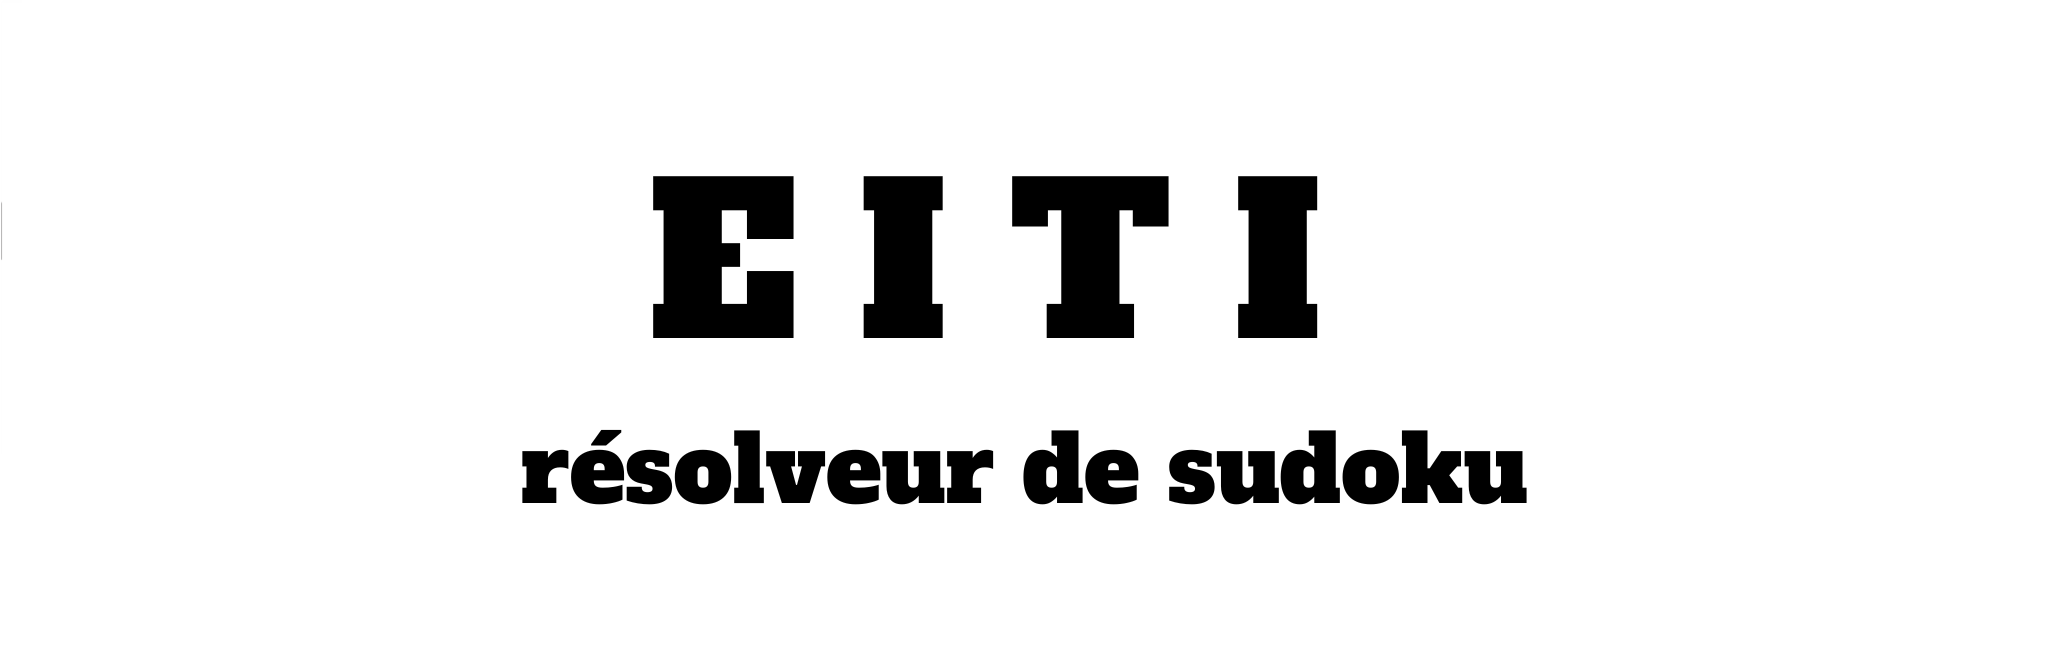
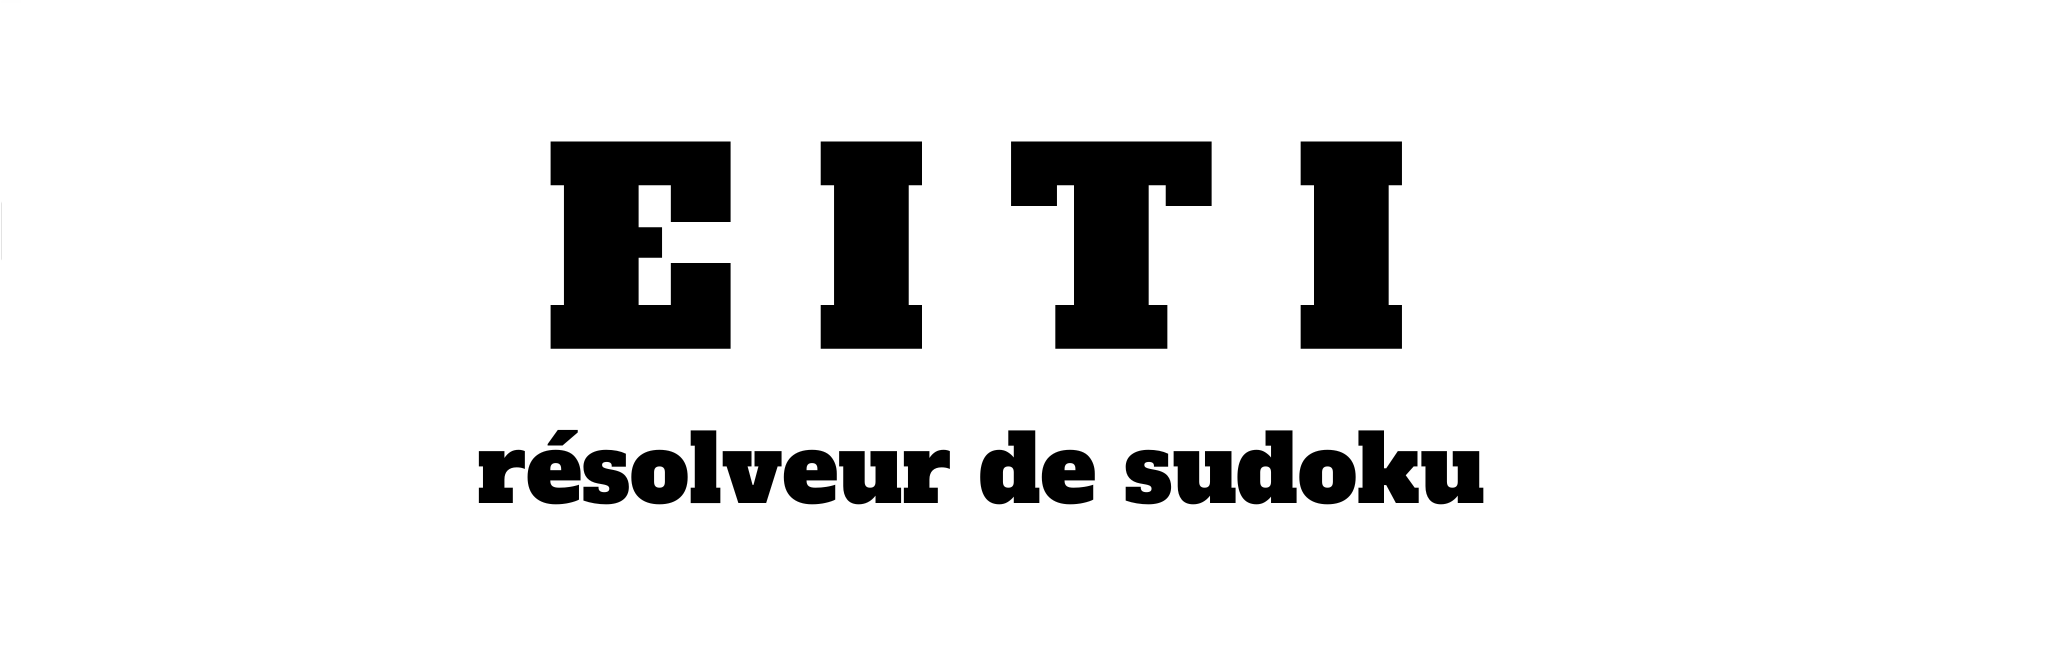
reglage

Changed region(s): [[0.25, 0.2154, 0.6875, 0.5538], [0.2188, 0.6462, 0.75, 0.8]]

diff --git a/css/styleHome.css b/css/styleHome.css
@@ -54,11 +54,11 @@ body {
 
 /* --- LOGO ---- */
 .logo{
-    margin-top: 5px;   
+    margin-top: 65px;
 }
 .lo{
-    margin-top: 5px;      /*   avant cétais a 180 */ 
-    margin-bottom: 40px;    /*   avant cétais a 150 */ 
+    margin-top: 60px;      /*   avant cétais a 180 */ 
+    margin-bottom: 70px;    /*   avant cétais a 150 */ 
 }
 
 /* --- FOOTER ---- */
